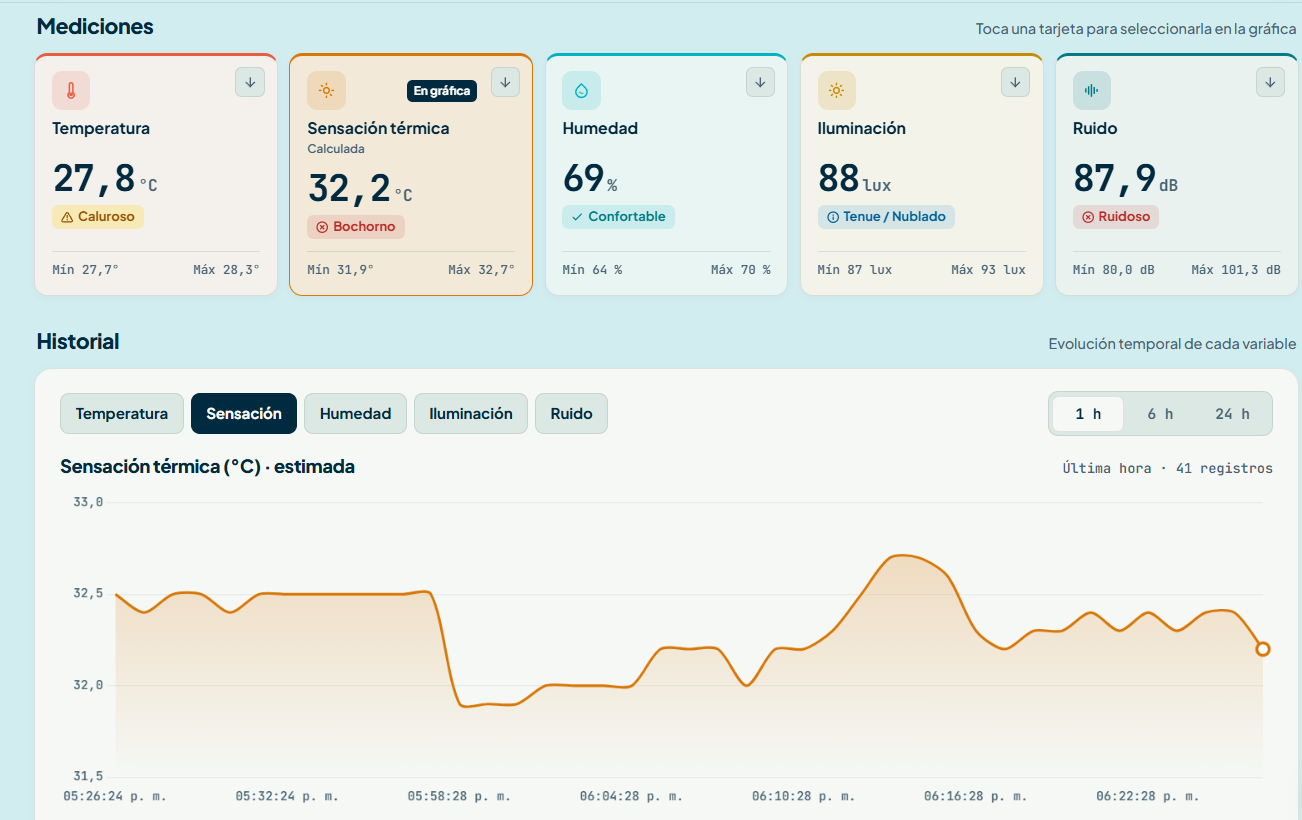
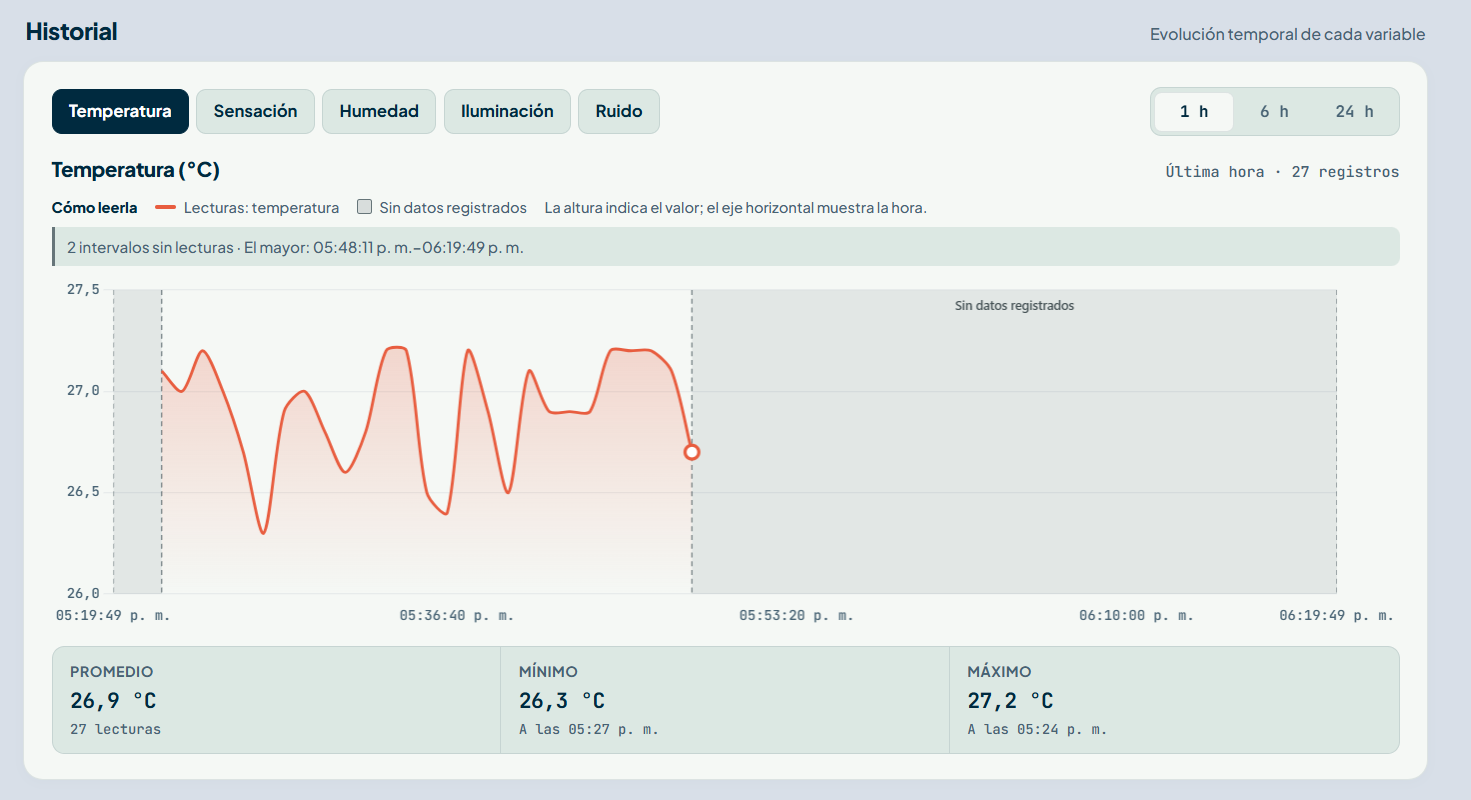
Cerrar la versión final y mejorar la lectura del historial
- Sombrear en gris los intervalos sin lecturas y añadir una guía para interpretar la gráfica
- Extender el historial hasta la hora actual y actualizarlo cada 30 segundos
- Llevar a la vista la ficha de fauna seleccionada en escritorio y móvil
- Reducir el espacio entre el historial y el footer, conservando los ajustes responsive
- Actualizar el README con estos cambios y el estado de la versión

diff --git a/js/dashboard.js b/js/dashboard.js
@@ -100,6 +100,42 @@ const cards = {};
 const lastSceneByNode = {};
 let lastAppliedScene = null;
 const pendingSceneByNode = {};
+// El firmware guarda una muestra de historial aproximadamente cada 60 s.
+const HISTORY_GAP_THRESHOLD_SECONDS = 90;
+
+function formatChartTime(timestamp) {
+  const date = new Date(Number(timestamp) * 1000);
+  const time = date.toLocaleTimeString("es-CO", {
+    hour: "2-digit",
+    minute: "2-digit",
+    ...(rango <= 60 ? { second: "2-digit" } : {})
+  });
+  const newestTimestamp = allFetchedRows.at(-1)?.ts;
+  if (!newestTimestamp) return time;
+  const newestDate = new Date(newestTimestamp * 1000);
+  if (date.toDateString() === newestDate.toDateString()) return time;
+  const day = date.toLocaleDateString("es-CO", { day: "2-digit", month: "2-digit" });
+  return `${day} ${time}`;
+}
+
+function getHistoryGaps(points, windowStart, windowEnd) {
+  const gaps = [];
+  if (!points.length) return gaps;
+  if (points[0].x - windowStart > HISTORY_GAP_THRESHOLD_SECONDS) {
+    gaps.push({ start: windowStart, end: points[0].x });
+  }
+  for (let i = 1; i < points.length; i++) {
+    const previous = points[i - 1];
+    const current = points[i];
+    if (current.x - previous.x > HISTORY_GAP_THRESHOLD_SECONDS) {
+      gaps.push({ start: previous.x, end: current.x });
+    }
+  }
+  if (windowEnd - points.at(-1).x > HISTORY_GAP_THRESHOLD_SECONDS) {
+    gaps.push({ start: points.at(-1).x, end: windowEnd });
+  }
+  return gaps;
+}
 
 // Respaldo de datos reales de Firebase mientras se usa el modo depuración
 let realCur = null;
@@ -254,6 +290,54 @@ HISTORY_ORDER.map(key => MBY[key]).filter(Boolean).forEach(m => {
 
 // ---------- Inicializar Chart.js ----------
 const getMaxXTicks = () => (window.innerWidth <= 420 ? 4 : window.innerWidth <= 840 ? 6 : 8);
+let chartGapRanges = [];
+
+const chartGapBands = {
+  id: "chartGapBands",
+  beforeDraw(chartInstance) {
+    if (!chartGapRanges.length) return;
+    const { ctx, chartArea, scales } = chartInstance;
+    if (!chartArea || !scales.x) return;
+    const { left, top, right, bottom } = chartArea;
+
+    ctx.save();
+    ctx.beginPath();
+    ctx.rect(left, top, right - left, bottom - top);
+    ctx.clip();
+
+    chartGapRanges.forEach(gap => {
+      const x1 = scales.x.getPixelForValue(gap.start);
+      const x2 = scales.x.getPixelForValue(gap.end);
+      const bandLeft = Math.max(left, Math.min(x1, x2));
+      const bandRight = Math.min(right, Math.max(x1, x2));
+      const bandWidth = bandRight - bandLeft;
+      if (bandWidth <= 0) return;
+
+      ctx.fillStyle = "rgba(102, 117, 121, 0.13)";
+      ctx.fillRect(bandLeft, top, bandWidth, bottom - top);
+      ctx.strokeStyle = "rgba(82, 97, 101, 0.8)";
+      ctx.lineWidth = 1;
+      ctx.setLineDash([4, 3]);
+      ctx.beginPath();
+      ctx.moveTo(bandLeft, top);
+      ctx.lineTo(bandLeft, bottom);
+      ctx.moveTo(bandRight, top);
+      ctx.lineTo(bandRight, bottom);
+      ctx.stroke();
+
+      if (bandWidth >= 150) {
+        ctx.setLineDash([]);
+        ctx.fillStyle = "#455255";
+        ctx.font = "600 10px system-ui, sans-serif";
+        ctx.textAlign = "center";
+        ctx.textBaseline = "top";
+        ctx.fillText("Sin datos registrados", (bandLeft + bandRight) / 2, top + 8);
+      }
+    });
+
+    ctx.restore();
+  }
+};
 
 const chart = window.Chart ? new Chart($("chart"), {
   type: "line",
@@ -281,6 +365,7 @@ const chart = window.Chart ? new Chart($("chart"), {
       }
     }]
   },
+  plugins: [chartGapBands],
   options: {
     responsive: true,
     maintainAspectRatio: false,
@@ -303,7 +388,7 @@ const chart = window.Chart ? new Chart($("chart"), {
             if (!items.length) return "";
             const idx = items[0].dataIndex;
             const total = items[0].dataset.data.length;
-            return items[0].label + (idx === total - 1 ? " · Más reciente" : "");
+            return formatChartTime(items[0].parsed.x) + (idx === total - 1 ? " · Más reciente" : "");
           },
           label: c => {
             const m = MBY[metric];
@@ -316,9 +401,15 @@ const chart = window.Chart ? new Chart($("chart"), {
     },
     scales: {
       x: {
+        type: "linear",
         grid: { display: false },
         border: { display: false },
-        ticks: { maxTicksLimit: getMaxXTicks(), maxRotation: 0, font: { family: "JetBrains Mono", size: 11 } }
+        ticks: {
+          maxTicksLimit: getMaxXTicks(),
+          maxRotation: 0,
+          font: { family: "JetBrains Mono", size: 11 },
+          callback: value => formatChartTime(value)
+        }
       },
       y: {
         grace: "12%",
@@ -381,6 +472,12 @@ function renderStatus() {
   Object.keys(cards).forEach(updateCard);
 }
 setInterval(renderStatus, 5000);
+// Mantiene el extremo derecho del historial en el presente, incluso si un nodo deja de enviar.
+setInterval(() => {
+  if (activeDebugPreset) return;
+  filtrarRowsPorTiempo();
+  renderChart();
+}, 30000);
 
 // ---------- Tarjetas de ubicación ----------
 function ensureCard(id) {
@@ -728,10 +825,9 @@ function filtrarRowsPorTiempo() {
     rows = [];
     return;
   }
-  // Toma el timestamp del registro más reciente como referencia en vez de Date.now()
-  const latestTs = allFetchedRows[allFetchedRows.length - 1].ts;
-  const cutoffSec = latestTs - (rango * 60) - 60;
-  rows = allFetchedRows.filter(r => r.ts >= cutoffSec);
+  const windowEnd = Math.floor(Date.now() / 1000);
+  const cutoffSec = windowEnd - (rango * 60);
+  rows = allFetchedRows.filter(r => r.ts >= cutoffSec && r.ts <= windowEnd);
 }
 
 function renderChart() {
@@ -742,8 +838,27 @@ function renderChart() {
   const pts = rows
     .filter(r => num(r[metric]) && num(r.ts))
     .map(r => ({ x: toNum(r.ts), y: toNum(r[metric]) }));
+  const windowEnd = Math.floor(Date.now() / 1000);
+  const windowStart = windowEnd - rango * 60;
+  const gaps = getHistoryGaps(pts, windowStart, windowEnd);
+  const gapNote = $("chartGapNote");
+  chartGapRanges = gaps;
+  $("chartSeriesSwatch").style.setProperty("--series-color", m.color);
+  $("chartSeriesLabel").textContent = m.computed
+    ? `Serie estimada: ${m.label.toLowerCase()}`
+    : `Lecturas: ${m.label.toLowerCase()}`;
 
   $("dMeta").textContent = pts.length ? `${rangoNombre} · ${pts.length} registros` : rangoNombre;
+  if (!gaps.length) {
+    gapNote.hidden = true;
+    gapNote.textContent = "";
+  } else {
+    const longestGap = gaps.reduce((longest, gap) => gap.end - gap.start > longest.end - longest.start ? gap : longest);
+    gapNote.textContent = gaps.length === 1
+      ? `Sin lecturas entre ${formatChartTime(longestGap.start)} y ${formatChartTime(longestGap.end)}`
+      : `${gaps.length} intervalos sin lecturas · El mayor: ${formatChartTime(longestGap.start)}–${formatChartTime(longestGap.end)}`;
+    gapNote.hidden = false;
+  }
 
   const empty = !pts.length;
   $("none").hidden = !empty;
@@ -761,6 +876,9 @@ function renderChart() {
     if (chart) {
       chart.data.labels = [];
       chart.data.datasets[0].data = [];
+      chartGapRanges = [];
+      chart.options.scales.x.min = undefined;
+      chart.options.scales.x.max = undefined;
       chart.update("none");
     }
     return;
@@ -785,15 +903,18 @@ function renderChart() {
 
   if (!chart) return;
 
-  chart.data.labels = pts.map(p =>
-    new Date(p.x * 1000).toLocaleTimeString("es-CO", {
-      hour: "2-digit",
-      minute: "2-digit",
-      ...(rango <= 60 ? { second: "2-digit" } : {})
-    })
-  );
-  chart.data.datasets[0].data = pts.map(p => p.y);
+  const chartPoints = [];
+  pts.forEach((point, index) => {
+    if (index > 0 && point.x - pts[index - 1].x > HISTORY_GAP_THRESHOLD_SECONDS) {
+      chartPoints.push({ x: (point.x + pts[index - 1].x) / 2, y: null });
+    }
+    chartPoints.push(point);
+  });
+  chart.data.labels = [];
+  chart.data.datasets[0].data = chartPoints;
   chart.data.datasets[0].borderColor = m.color;
+  chart.options.scales.x.min = windowStart;
+  chart.options.scales.x.max = windowEnd;
   chart.options.scales.x.ticks.maxTicksLimit = getMaxXTicks();
   chart.update();
 }
@@ -1087,6 +1208,7 @@ const debugBtns = $("debugBtns");
 
 if (debugDock && debugBtns && debugToggle) {
   const showDemo = new URLSearchParams(location.search).get("demo") === "1";
+  document.body.classList.toggle("demo-active", showDemo);
   debugDock.hidden = !showDemo;
   debugBtns.addEventListener("click", e => {
     const btn = e.target.closest(".dbg-btn");

diff --git a/css/dashboard.css b/css/dashboard.css
@@ -422,6 +422,44 @@
   font-size: 0.75rem;
   color: var(--muted);
 }
+.chart-guide {
+  display: flex;
+  flex-wrap: wrap;
+  align-items: center;
+  gap: 7px 14px;
+  margin: -2px 0 10px;
+  color: var(--muted);
+  font-size: 0.73rem;
+  line-height: 1.4;
+}
+.chart-guide-title { color: var(--pb-navy); font-weight: 750; }
+.chart-guide-item { display: inline-flex; align-items: center; gap: 6px; }
+.chart-guide-swatch { display: inline-block; flex: 0 0 auto; }
+.chart-guide-swatch-series {
+  width: 17px;
+  height: 3px;
+  border-radius: 3px;
+  background: var(--series-color, #007A85);
+}
+.chart-guide-swatch-gap {
+  width: 12px;
+  height: 12px;
+  border: 1px solid #667579;
+  border-radius: 2px;
+  background: rgba(102, 117, 121, 0.2);
+}
+.chart-guide-help { color: var(--muted); }
+.chart-gap-note {
+  margin: -2px 0 10px;
+  padding: 7px 10px;
+  border-left: 3px solid #667579;
+  border-radius: 0 7px 7px 0;
+  background: var(--card-alt);
+  color: var(--muted);
+  font-size: 0.76rem;
+  line-height: 1.4;
+}
+.chart-gap-note[hidden] { display: none; }
 
 .chart {
   position: relative;

diff --git a/js/ui/fauna-footer.js b/js/ui/fauna-footer.js
@@ -41,9 +41,16 @@ FOOT_SCENES.forEach((item, idx) => {
   const activate = () => {
     if (el.parentElement === footSpotlightEl) return;
     setFootSpotlight(item.key, false);
-    if (window.matchMedia("(max-width: 760px)").matches) {
-      requestAnimationFrame(() => footSpotlightEl.scrollIntoView({ behavior: "smooth", block: "start" }));
-    }
+    requestAnimationFrame(() => {
+      const header = document.querySelector(".top");
+      const topLimit = header?.getBoundingClientRect().bottom ?? 0;
+      const bounds = footSpotlightEl.getBoundingClientRect();
+      const fullyVisible = bounds.top >= topLimit && bounds.bottom <= window.innerHeight;
+      if (!fullyVisible) {
+        const reducedMotion = window.matchMedia("(prefers-reduced-motion: reduce)").matches;
+        footSpotlightEl.scrollIntoView({ behavior: reducedMotion ? "auto" : "smooth", block: "start" });
+      }
+    });
   };
   el.addEventListener("click", activate);
   el.addEventListener("keydown", e => {

diff --git a/index.html b/index.html
@@ -175,6 +175,13 @@
       <p class="dt" id="dTitle">Temperatura (°C)</p>
       <p class="d-meta" id="dMeta">Última hora</p>
     </div>
+    <div class="chart-guide" role="note" aria-label="Cómo leer la gráfica">
+      <strong class="chart-guide-title">Cómo leerla</strong>
+      <span class="chart-guide-item"><span class="chart-guide-swatch chart-guide-swatch-series" id="chartSeriesSwatch" aria-hidden="true"></span><span id="chartSeriesLabel">Lecturas de temperatura</span></span>
+      <span class="chart-guide-item"><span class="chart-guide-swatch chart-guide-swatch-gap" aria-hidden="true"></span><span>Sin datos registrados</span></span>
+      <span class="chart-guide-help">La altura indica el valor; el eje horizontal muestra la hora.</span>
+    </div>
+    <p class="chart-gap-note" id="chartGapNote" role="status" aria-live="polite" hidden></p>
 
     <div class="chart">
       <canvas id="chart" role="img" aria-label="Gráfica del historial de mediciones"></canvas>

diff --git a/css/fauna.css b/css/fauna.css
@@ -140,7 +140,7 @@ body[data-scene="offline"] { --bg: #D8DFE8; }
 .foot {
   background: #002A3F;
   color: #DCE8EE;
-  margin-top: 40px;
+  margin-top: 20px;
   padding: 28px clamp(12px, 3vw, 28px) calc(env(safe-area-inset-bottom, 0px) + 24px);
 }
 .foot-in { max-width: 1180px; margin: 0 auto; }
@@ -572,7 +572,7 @@ body[data-scene="offline"] { --bg: #D8DFE8; }
 
 
 
-/* La ficha destacada queda visible al elegir una escena en móvil. */
+/* Mantiene la ficha seleccionada visible al navegar desde la cuadrícula. */
 .foot-spotlight { scroll-margin-top: 72px; }
 
 .mascot-art.scene-enter { animation: sceneEnter 420ms cubic-bezier(.2,.75,.25,1) both; }

diff --git a/css/responsive.css b/css/responsive.css
@@ -32,8 +32,11 @@
   .pill { padding: 4px 9px; font-size: 0.71rem; gap: 6px; }
 
   main {
-    padding: 12px 14px calc(76px + env(safe-area-inset-bottom, 0px));
+    padding: 12px 14px calc(20px + env(safe-area-inset-bottom, 0px));
   }
+  body.demo-active main { padding-bottom: calc(88px + env(safe-area-inset-bottom, 0px)); }
+
+  .foot { margin-top: 16px; }
 
   .brand { padding: 4px 0 6px; }
   .logo-wrap { margin-bottom: 9px; }

diff --git a/css/shell.css b/css/shell.css
@@ -245,8 +245,9 @@
 main {
   max-width: 1180px;
   margin: 0 auto;
-  padding: 16px clamp(12px, 3vw, 28px) calc(84px + env(safe-area-inset-bottom, 0px));
+  padding: 16px clamp(12px, 3vw, 28px) calc(24px + env(safe-area-inset-bottom, 0px));
 }
+body.demo-active main { padding-bottom: calc(104px + env(safe-area-inset-bottom, 0px)); }
 .sec-head {
   display: flex;
   flex-wrap: wrap;
